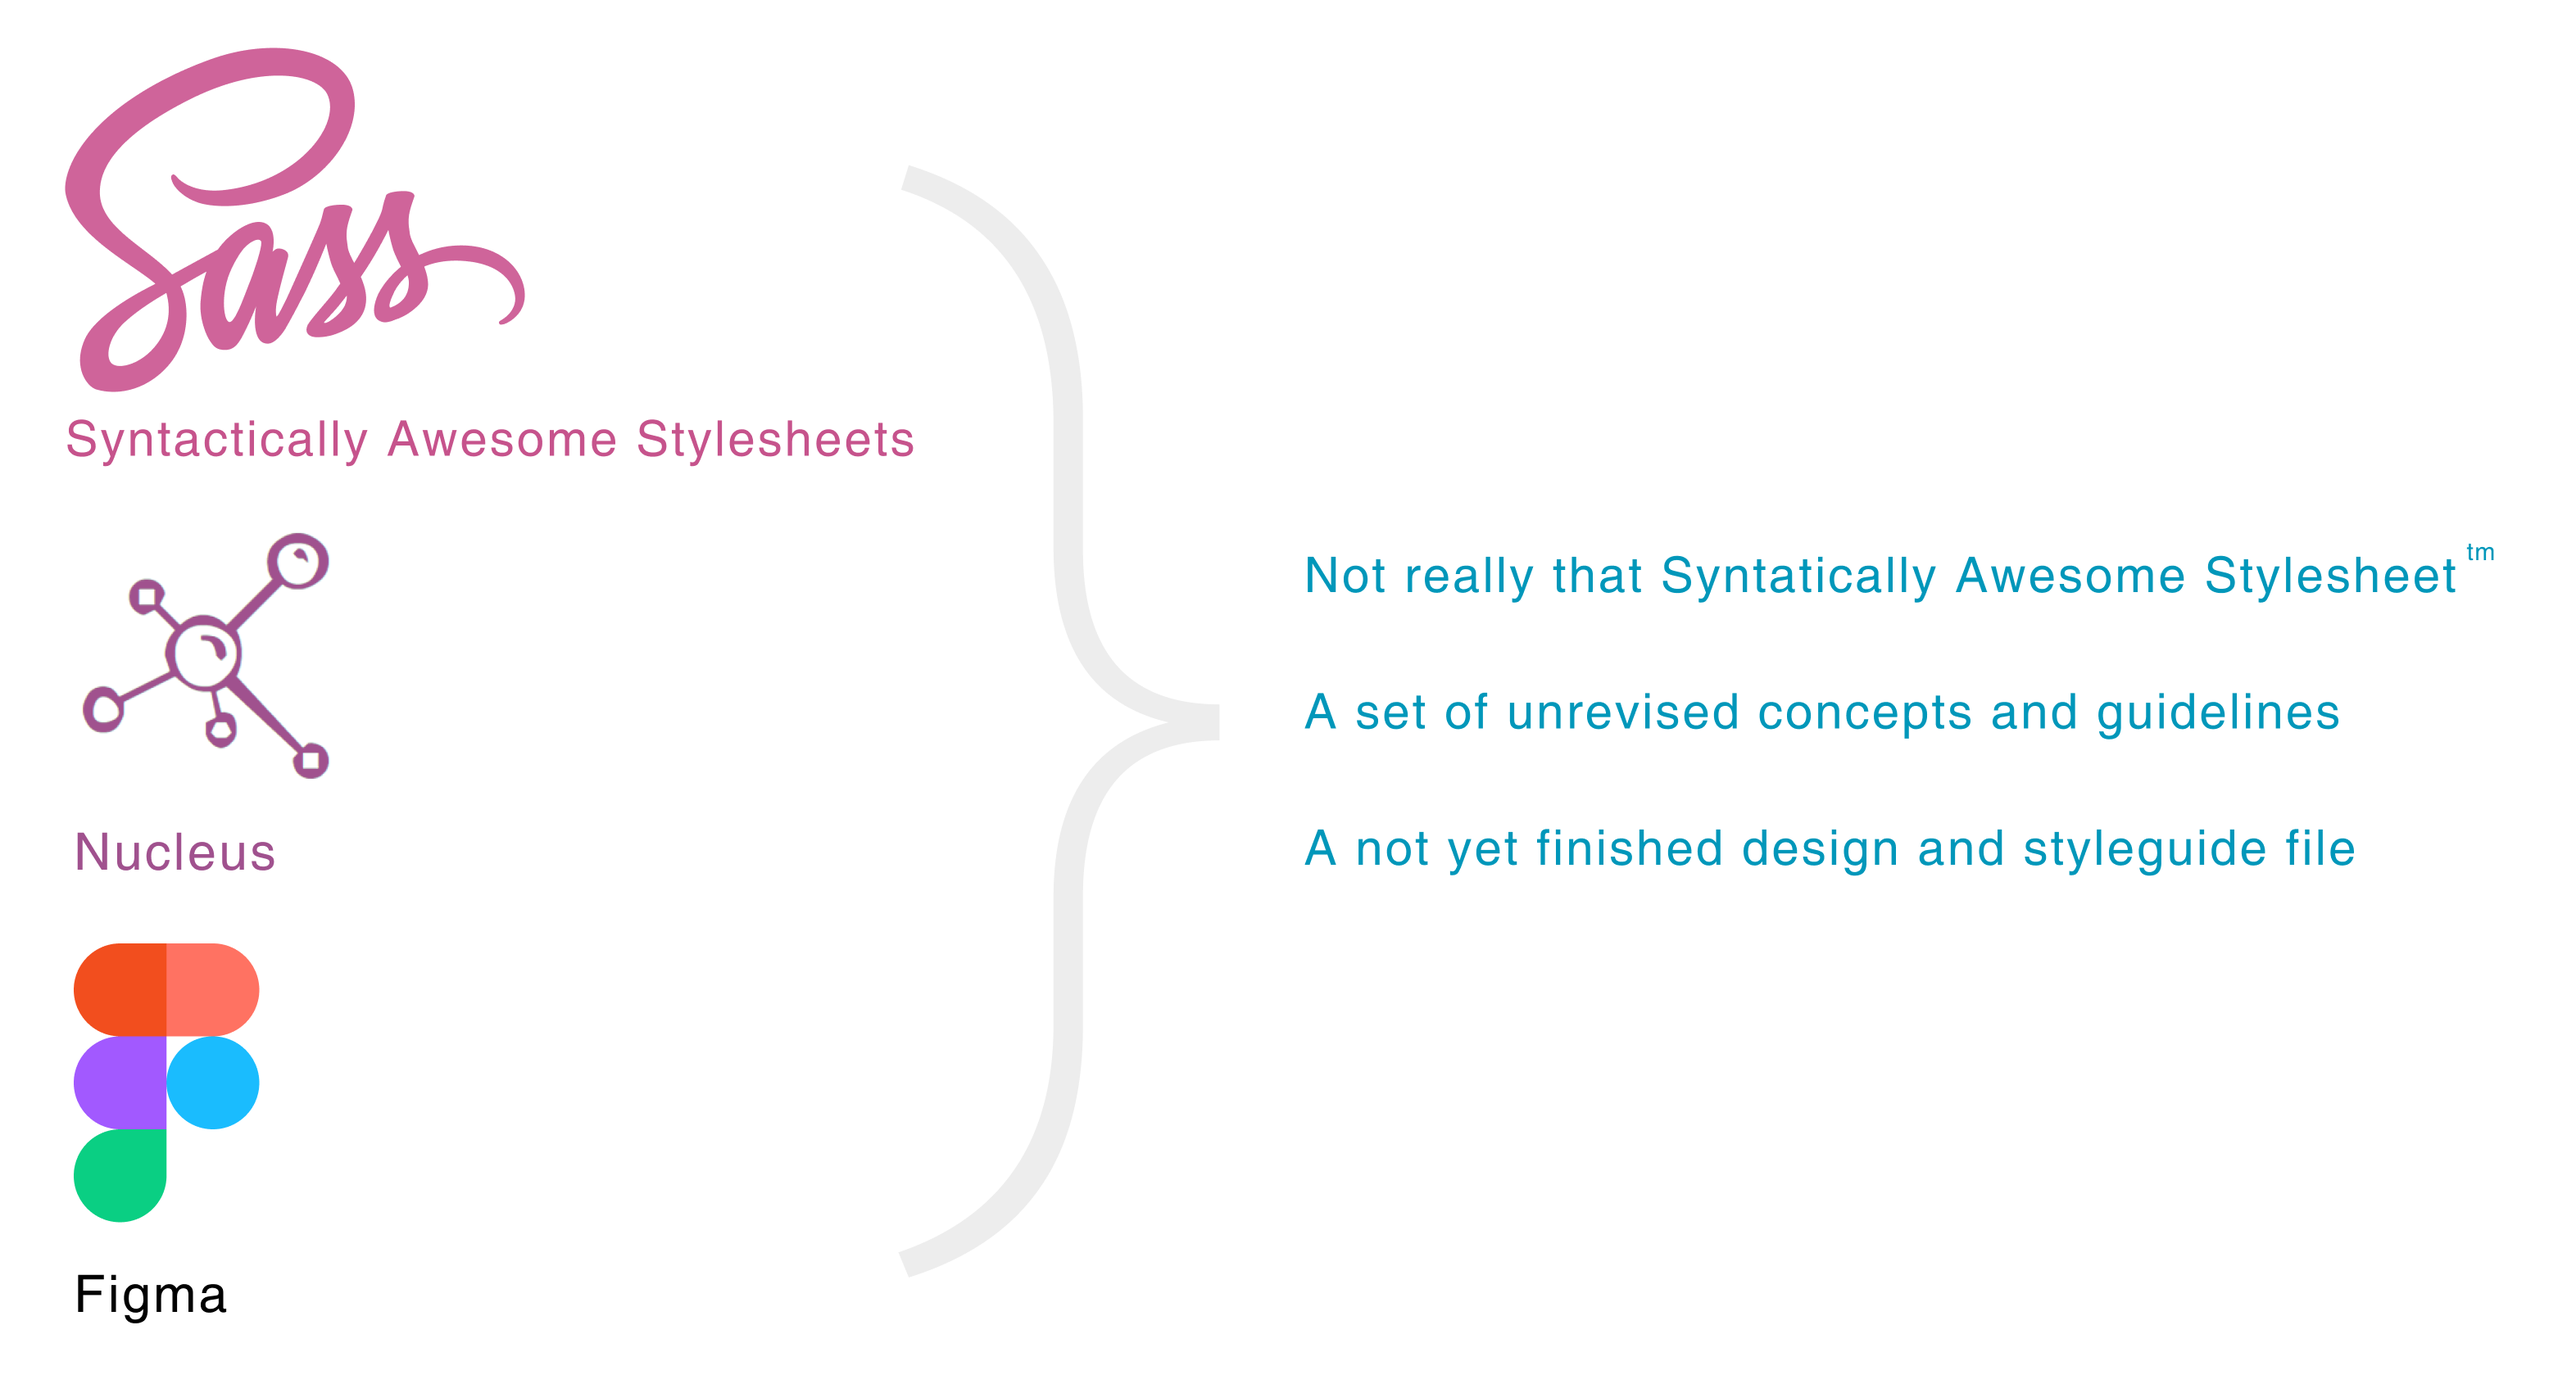
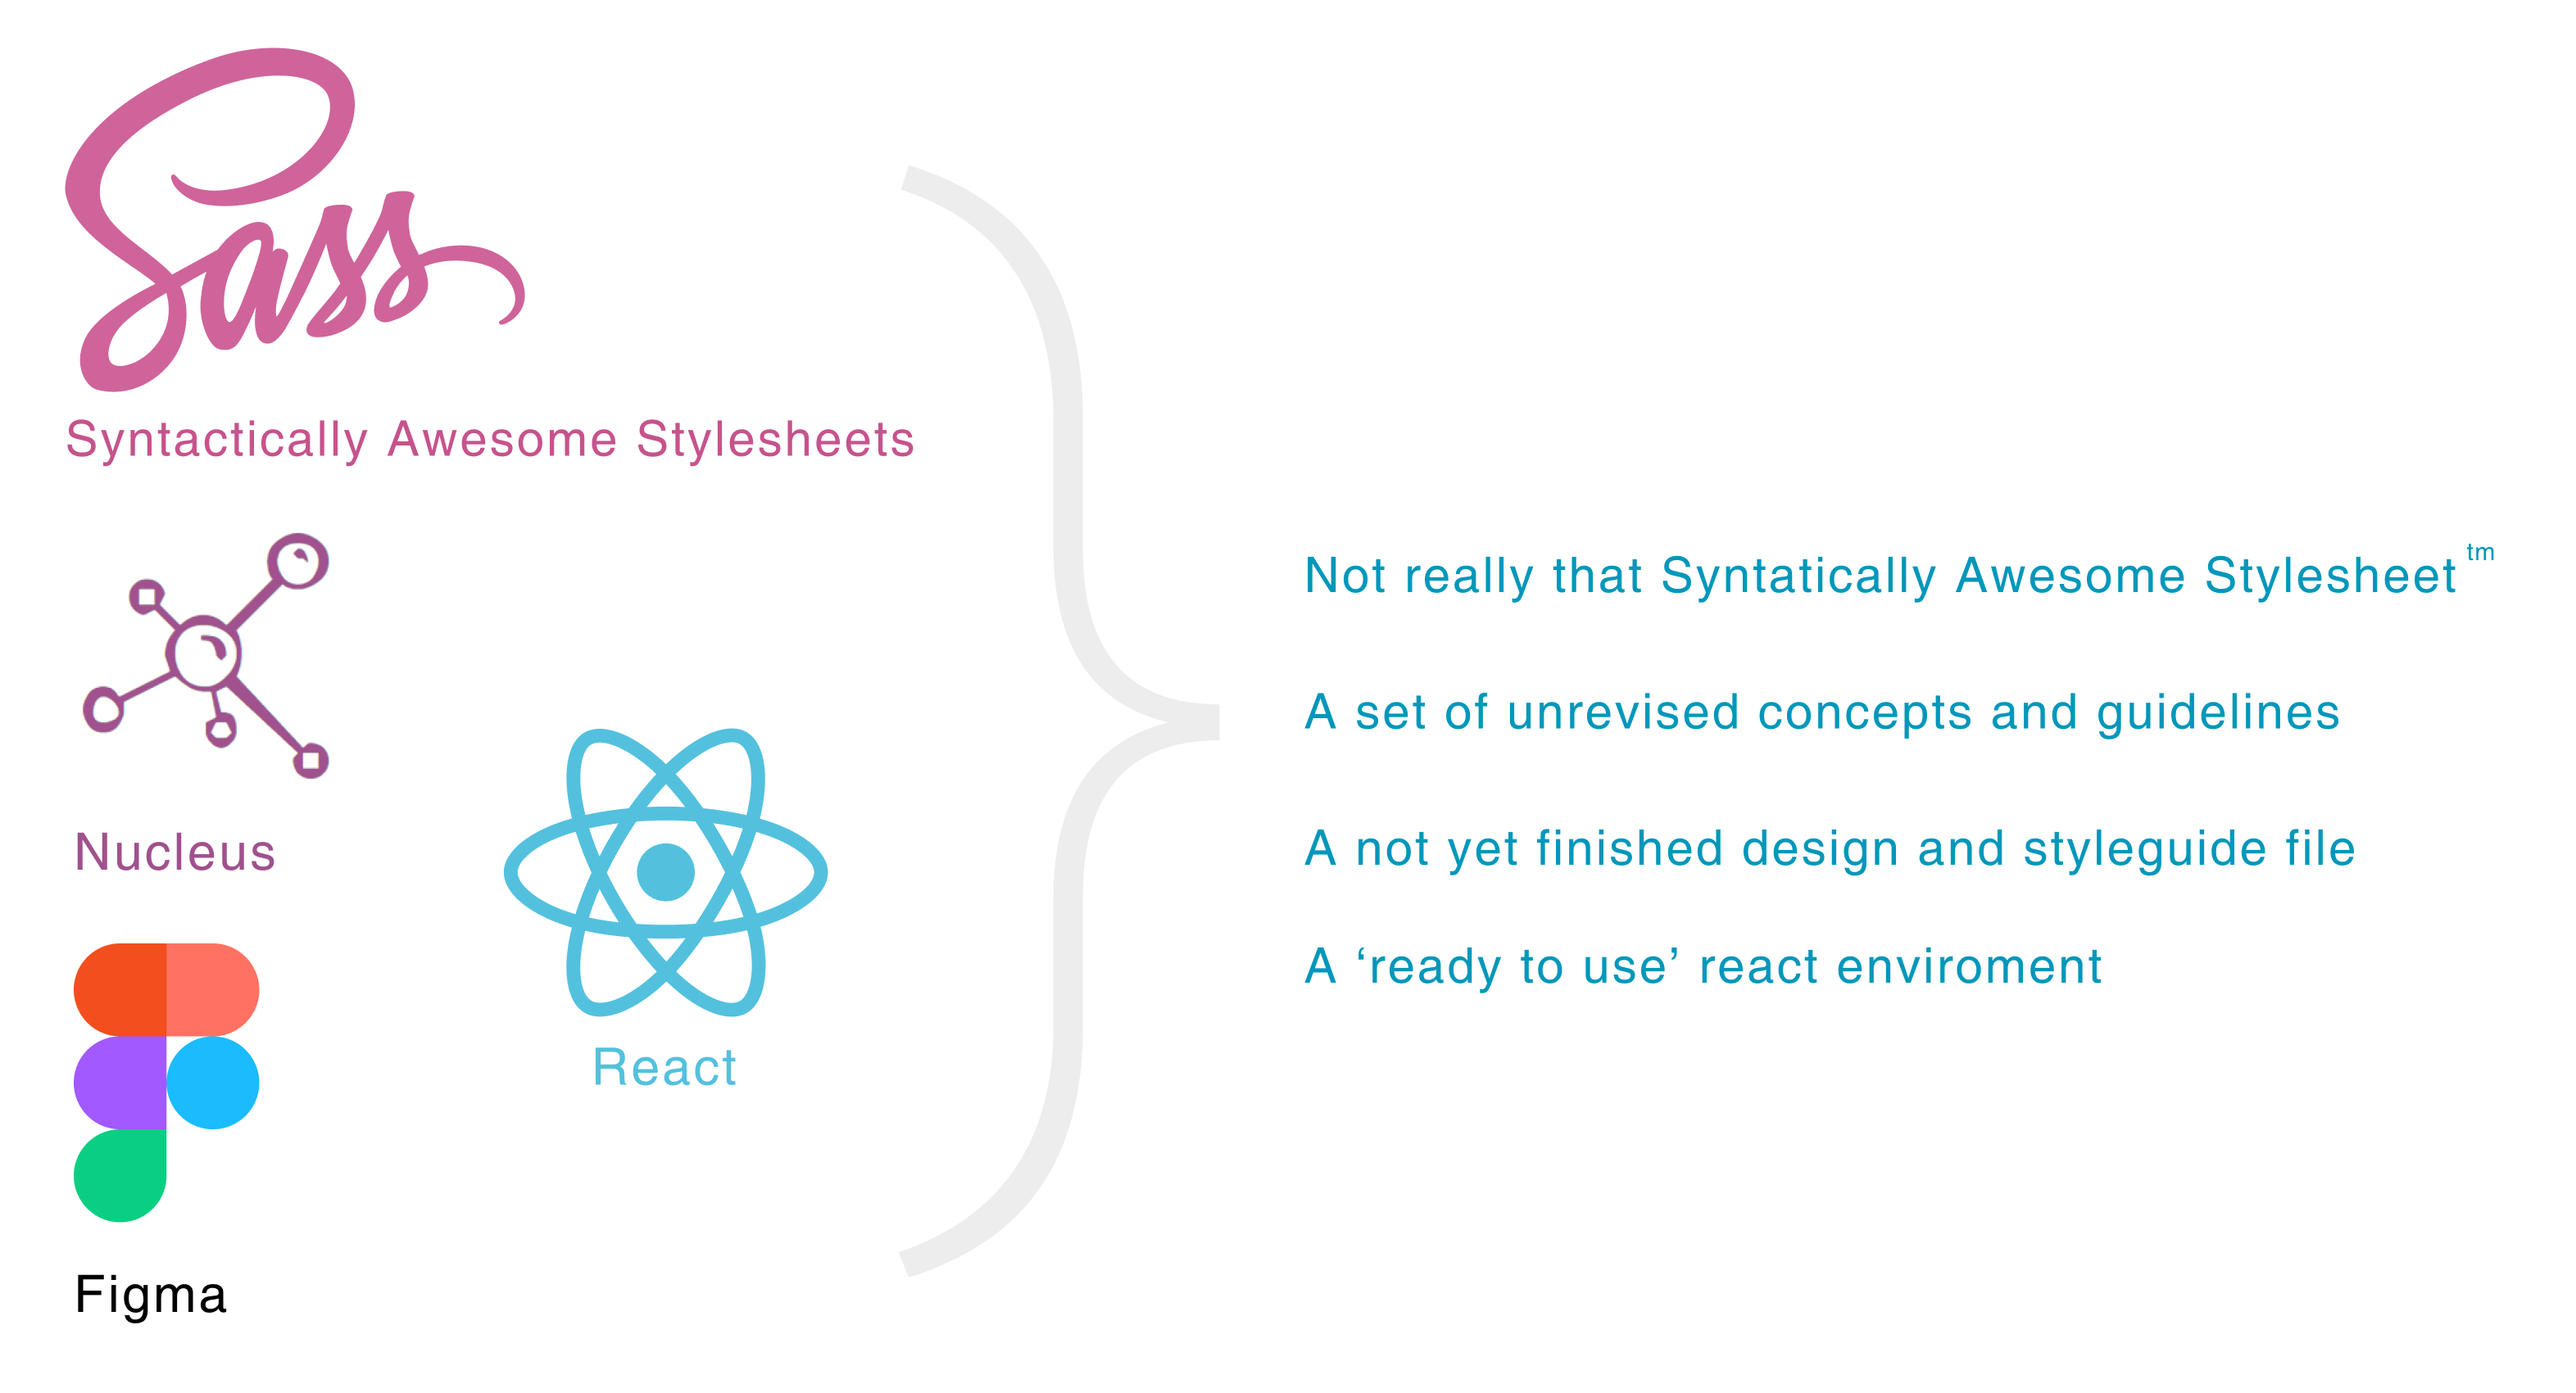
small change before the presentation

Changed region(s): [[0.187, 0.5297, 0.3429, 0.779], [0.4987, 0.6855, 0.8104, 0.7166]]

diff --git a/index.html b/index.html
@@ -352,19 +352,6 @@
 				</section>
 
 				<section id="fragments-atomic2">
-					<h2>Under the hood</h3>
-				</section>				
-
-				<section id="fragments-atomic2">
-					<ul>
-						<li class="fragment">Few dependencies (for now)</li>
-						<li class="fragment">More than 30 helper functions and about 100 mixins total.</li>
-						<li class="fragment">Component based approach - generate style only when used</li>
-						<li class="fragment">Ultra light - SASS Baseline ~ 160kb - Generated style ~ 6kb gziped</li>
-					</ul>
-				</section>
-
-				<section id="fragments-atomic2">
 						<h2>What's in the box</h3>
 					</section>	
 
@@ -398,8 +385,9 @@
 					<section id="fragments2234">
 						<ul>
 							<li class="fragment">A logo</li>
-							<li class="fragment">Integration with react</li>
-							<li class="fragment">Integration with figma/sketch*</li>
+							<li class="fragment"><u>Integration with react</u></li>
+							<li class="fragment"><u>Integration with figma/</u>sketch*</li>
+							<li class="fragment">Integration with graphql</li>
 							<li class="fragment">Continous improvements</li>
 						</ul>
 					</section>
@@ -467,6 +455,7 @@
 
 						<ul>
 							<li><a href="https://waitbutwhy.com/2015/11/the-cook-and-the-chef-musks-secret-sauce.html">Wait but why <small>https://waitbutwhy.com/2015/11/the-cook-and-the-chef-musks-secret-sauce.html</small></a></li>
+							<li><a href="https://www.amazon.com/dp/B07CWBC291">The Critical Thinker: The Path To Better Problem Solving, Accurate Decision Making, and Self-Disciplined Thinking <small>https://www.amazon.com/dp/B07CWBC291</small></small></a></a></li>
 						</ul>
 					</section>
 

diff --git a/css/custom.css b/css/custom.css
@@ -767,3 +767,7 @@ body .reveal h1.big-title {
     font-size: 2.3em;
     line-height: 2;
 }
+
+u {
+  text-decoration: line-through;
+}
